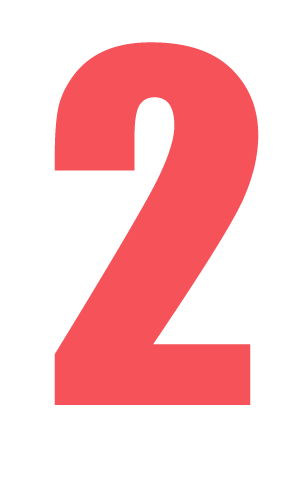
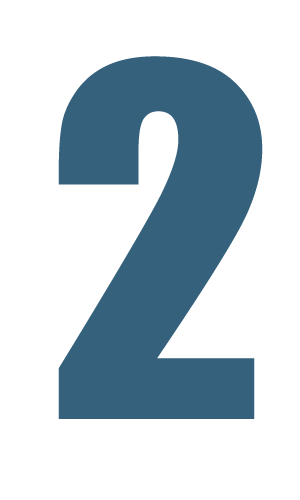
Cor dos numeros alterado

diff --git a/resources/views/Formularios/trabalheconosco.blade.php b/resources/views/Formularios/trabalheconosco.blade.php
@@ -7,7 +7,7 @@
 <center><div class="col s12 l3 m3" id="primeiro">
 	<div class="cima" class="primeiro"></div>
 			<div class="meio">
-				<h5>CADASTRE SEU ESTABELECIMENTO</h5>
+				<h5 class="position">CADASTRE SEU ESTABELECIMENTO</h5>
 			</div>
 	<div class="baixo"></div>
 </div></center>
@@ -15,7 +15,7 @@
 <center><div class="col s12 l3 m3" id="segundo">
 	<div class="cima"></div>
 		<div class="meio">
-			<h5>ENTRAMOS EM CONTATO E FECHAMOS CONTRATO</h5>
+			<h5 class="position2">ENTRAMOS EM CONTATO E FECHAMOS CONTRATO</h5>
 		</div>
 	<div class="baixo"></div>
 </div></center>
@@ -23,7 +23,7 @@
 <center><div class="col s12 l3 m3" id="terceiro">
 	<div class="cima"></div>
 		<div class="meio">
-			<h5>CONFIGURAMOS SUA EMPRESA PARA O HELPPROMPT</h5>
+			<h5 class="position3">CONFIGURAMOS SUA EMPRESA PARA O HELPPROMPT</h5>
 		</div>
 	<div class="baixo"></div>
 </div></center>
@@ -31,7 +31,7 @@
 <center><div class="col s12 l3 m3" id="quarto">
 	<div class="cima"></div>
 		<div class="meio">
-			<h5>E JÁ ESTÁ PRONTO!</h5>
+			<h5 class="position4">E JÁ ESTÁ PRONTO!</h5>
 		</div>
 	<div class="baixo"></div>
 </div></center>
@@ -51,49 +51,61 @@
 
 <style>
 .cima{
-height: 40%;
+height: 20%;
 }
 .meio{
-height: 20%;
+height: 15%;
 background-color: white;
 }
 .baixo{
-height: 40%;
+height: 20%;
+}
+.position{
+	padding: 5% 0% 5% 0%;
+}
+.position2{
+	padding: 2% 0% 2% 0%;
+}
+.position3{
+	padding: 2% 0% 2% 0%;
+}
+.position4{
+	padding: 10% 0% 10% 0%;	
 }
 #primeiro{
 	background-image: url('numeros1.png');
 	background-repeat: no-repeat;
-	background-position: center; 
-	border-width: 5px;  
+	background-position: center;
+	background-size:contain; 
     border-style: solid;
-	border-radius: 10px;
-	margin: 10px 10px 10px 20px;
+	border-radius: 8%;
+	margin: 0.5% 0.5% 0.5% 0.5%;
 }
 #segundo{
 	background-image: url('numeros2.png');
 	background-repeat: no-repeat;
-	background-position: center; 
-	border-width:5px;  
+	background-position: center;  
+	background-size:contain; 
     border-style: solid;
-	border-radius: 10px;
-	margin: 10px;	
+	border-radius: 8%;
+	margin: 0.5% 0.5% 0.5% 0.5%;	
 }
 #terceiro{
 	background-image: url('numeros3.png');
 	background-repeat: no-repeat;
-	background-position: center;
-	border-width:5px;  
+	background-position: center;  
+	background-size:contain;
     border-style: solid;
-	border-radius: 10px;
-	margin: 10px; 
+	border-radius: 8%;
+	margin: 0.5% 0.5% 0.5% 0.5%; 
 }
 #quarto{
 	background-image: url('numeros4.png');
 	background-repeat: no-repeat;
-	background-position: center; 
-	border-width:5px;  
+	background-position: center;
+	background-size:contain;   
     border-style: solid;
-	border-radius: 10px;
-	margin: 10px;
+	border-radius: 8%;
+	margin: 0.5% 2.5% 0.5% 0.5%;
 }
 </style>

diff --git a/resources/views/index.blade.php b/resources/views/index.blade.php
@@ -42,11 +42,10 @@
 
 			<!-- Bloco sobre  -->
 			<div class="container-fluid" id="sobre">
-				<a name="sobre"></a>
 				<div class="container">
 					<div class="row">
 						<div class="col s12 m12 l12">
-							<h2 class="black-text">SOBRE</h2></div>
+							<h2 class="black-text" style="padding: 20% 0% 0% 0%;">SOBRE</h2></div>
 						</div>
 					<div class="row">
 						<div class="col s12 m4 l4 left">
@@ -63,18 +62,27 @@
 					<!-- Fim do Bloco sobre -->
 					<br>
 					<br>
+
+					<!-- Bloco Baixe o App -->
+						<!--  @include('HtmlWraps.baixeoapp') -->
+					<!-- Fim do Bloco Baixe o App -->
+
 					<!-- Trabalhe conosco  -->
-					<div  id="trabalheconosco">
-						<a nome="trabalheconosco">
+						<div  id="trabalheconosco">
 							@include('Formularios.trabalheconosco')
-					</div>
+						</div>
 					<!-- Fim do Trabalhe conosco -->
-						
+
+					<!-- Bloco Informações  -->
+						<div class="container" id="informacoes">
+							@include('HtmlWraps.informacoes')
+						</div>
+					<!-- Fim do Bloco Informações  -->
+
 					<!-- Bloco Fale conosco -->
-					<div class="container" id="faleconosco">
-						<a nome="faleconosco">
+						<div class="container" id="faleconosco">
 							@include('Formularios.faleconosco')
-					</div>
+						</div>
 					<!-- Bloco Fale conosco -->
 					<br>
 					<br>
@@ -98,7 +106,6 @@
 				$('#modal1').modal();
 				$('#modal2').modal();
 				$('#modal3').modal();
-				$('.parallax').parallax();
 
 				// Inicio da navbar
 				$('.button-collapse').sideNav({
@@ -108,32 +115,6 @@
 					draggable: true, // Choose whether you can drag to open on touch screens,
 				});
 				// Final da navbar
-
-
-				$(document).ready(function() {
-					$('select').material_select();
-				});
-
-
-				//Efeitos de animação
-				$.scrollify({
-			     section : "section",
-			     sectionName : "section-name",
-			     interstitialSection : "",
-			     easing: "easeOutExpo",
-			     scrollSpeed: 1100,
-			     offset : 0,
-			     scrollbars: true,
-			     standardScrollElements: "",
-			     setHeights: true,
-			     overflowScroll: true,
-			     updateHash: true,
-			     touchScroll:true,
-			     before:function() {},
-			     after:function() {},
-			     afterResize:function() {},
-			     afterRender:function() {}
-			   });
 
 				</script>
 			<script type="text/javascript" src="javascript.js"></script>
@@ -146,13 +127,11 @@ h2{
 }
 
 #trabalheconosco{
-	background-color: #e5e3e3;
 	/* height: 460px; */
 	/* padding: 10px 10px 0px 0px; */
 }
 
 #sobre{
-		background-color:  #b3d0e2;
 		padding: 10px 10px 10px 0px;
 		height: 660px;
 }

diff --git a/resources/views/HtmlWraps/baixeoapp.blade.php b/resources/views/HtmlWraps/baixeoapp.blade.php
@@ -1,0 +1,18 @@
+<a name="baixeoapp"></a>
+						<div class="container">
+							<div class="row">
+								<div class="col s12 m12 l12">
+									<h2 class="black-text right">BAIXE O APLICATIVO!</h2></div>
+								</div>
+							<div class="row">
+								<div class="col s12 m4 l4 left">
+									<div class="icon-block">
+										<img src="Logo/logobrancasemfundo.png" class="responsive-img" style="text-align: left;">
+									</div>
+								</div>
+									<div class="col s12 m8 l8">
+										<h4 class="light flow-text black-text" style="line-height: 150%; text-align: center;">HelpPrompt está disponível para Android e IOS.</h4>
+										<h2 class="light flow-text black-text" style="line-height: 150%; text-align: center;">BAIXE O SEU APP AGORA!</h2>
+									</div>
+								</div>
+					</div>

diff --git a/resources/views/HtmlWraps/informacoes.blade.php b/resources/views/HtmlWraps/informacoes.blade.php
@@ -1,0 +1,10 @@
+<div class="container">
+    <h3 style="line-height: 150%; text-align: center; color: #023a5d;"><strong>Cobramos apenas quando seu estabelecimento vender!</strong></h3>
+    <br>
+    <br>
+    <br>
+    <h5 style="line-height: 150%; text-align: center; color: black;">A taxa só é cobrada sobre os atendimentos realizados pelo site ou pelo aplicativo!</h5>
+    <br>
+    <br>
+    <h6 style="line-height: 150%; text-align: center; color: grey;">* O valor da taxa é de 6% sobre o total do serviço prestado concluído no HelpPrompt. *</h6>
+</div>
